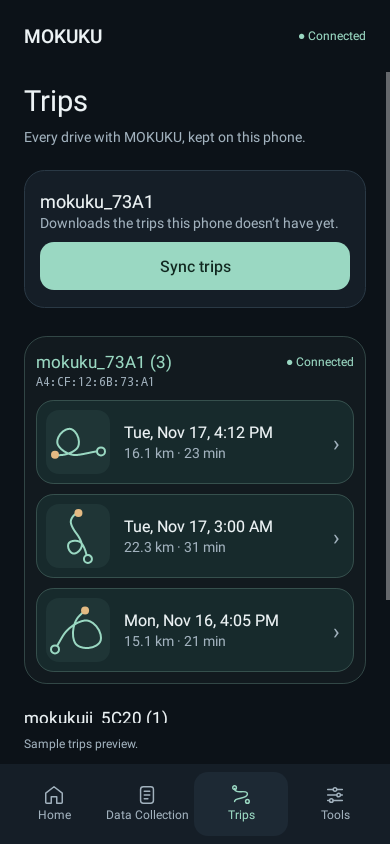
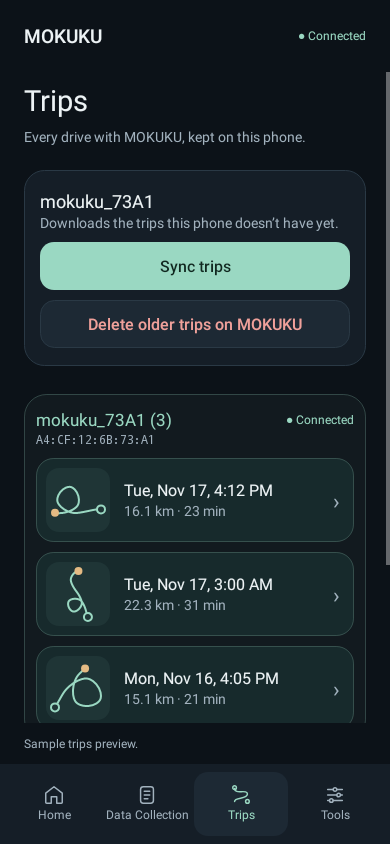
Trips: delete older trips on MOKUKU after a sync
Delete older trips on MOKUKU syncs, then deletes every device trip from 1 to the
newest number minus one with the new trip-deletion command (message 58 on the
original MOKUKU, set property 17 on MOKUKU II). Nothing is deleted when a trip
fails to sync.

diff --git a/design/app.js b/design/app.js
@@ -224,7 +224,7 @@ function syncCard() {
   if (state.sync) {
     return `<section class="card"><div class="card-heading"><span class="icon-tile">${icon("refresh")}</span><div><h3>Syncing trips</h3><p>Trip ${state.sync.index + 1} of ${state.sync.total} · ${state.deviceOnlyTrips[state.sync.index].name}</p></div></div><div class="download-progress"><progress id="sync-progress" value="${state.sync.progress}" max="100" aria-label="Sample sync progress"></progress><div class="download-status"><span id="sync-status">${state.sync.progress}% · sample transfer</span><button class="text-button" data-action="cancel-sync">Cancel</button></div></div></section>`;
   }
-  return `<section class="card"><div class="card-heading"><span class="icon-tile">${icon("download")}</span><div><h3>${state.connected ? device.name : "Sync with MOKUKU"}</h3><p>${state.connected ? "Downloads the trips this phone doesn’t have yet." : "Connect to download new trips. Saved trips stay on this phone."}</p></div></div>${deviceButton(`${icon("refresh")} Sync trips`, "sync-trips", "primary full")}</section>`;
+  return `<section class="card"><div class="card-heading"><span class="icon-tile">${icon("download")}</span><div><h3>${state.connected ? device.name : "Sync with MOKUKU"}</h3><p>${state.connected ? "Downloads the trips this phone doesn’t have yet." : "Connect to download new trips. Saved trips stay on this phone."}</p></div></div>${deviceButton(`${icon("refresh")} Sync trips`, "sync-trips", "primary full")}${deviceButton(`${icon("trash")} Delete older trips on MOKUKU`, "confirm-delete-trips", "danger full", 'style="margin-top:10px"')}</section>`;
 }
 
 function trips() {
@@ -465,6 +465,13 @@ const actions = {
   download(element) { download(element.dataset.file); },
   "sync-trips": syncTrips,
   "cancel-sync"() { cancelSync(); },
+  "confirm-delete-trips"() {
+    openSheet("Delete older trips on MOKUKU?", `<p>MOKUKU syncs first, then deletes every trip on its SD card except the latest. Phone copies are kept. If any trip fails to sync, nothing is deleted.</p><p class="detail">Design preview: no trips are deleted.</p><div class="button-row">${button("Keep trips", "close-sheet")}${button("Sync and delete", "delete-trips", "danger")}</div>`);
+  },
+  "delete-trips"() {
+    closeSheet();
+    toast("Preview: sync and delete demonstrated. No device trips were deleted.");
+  },
   "open-trip"(element) {
     state.trip = state.trips[Number(element.dataset.trip)];
     state.scroll.trip = 0;

diff --git a/app/src/test/java/com/mokuku/debug/MokukuConnectionTest.java b/app/src/test/java/com/mokuku/debug/MokukuConnectionTest.java
@@ -492,7 +492,7 @@ public class MokukuConnectionTest {
             peer.files.put(1, first);
             peer.files.put(2, second);
             peer.files.put(3, third);
-            connection.syncTrips();
+            connection.syncTrips(false);
             assertTrue(connection.snapshot().message, peer.ended.await(5, TimeUnit.SECONDS));
             onWorker(connection, () -> {});
             MokukuConnection.Snapshot snapshot = connection.snapshot();
@@ -516,7 +516,7 @@ public class MokukuConnectionTest {
             peer.files.put(5, fifth);
             peer.files.put(6, sixth);
             onWorker(connection, () -> ReflectionHelpers.setField(connection, "recordingAccessCode", "sample-code"));
-            connection.syncTrips();
+            connection.syncTrips(false);
             assertTrue(peer.listed.await(5, TimeUnit.SECONDS));
             onWorker(connection, () -> {});
             // The paused test clock never fires the listing's reply timeout.
@@ -530,6 +530,21 @@ public class MokukuConnectionTest {
         } finally { connection.close(); }
     }
 
+    @Test public void syncThenDeletesEveryDeviceTripButTheNewest() throws Exception {
+        MokukuConnection connection = connectedSession();
+        try {
+            TripPeer peer = new TripPeer(connection, true);
+            peer.files.put(2, pattern(120));
+            peer.files.put(3, pattern(140));
+            connection.syncTrips(true);
+            assertTrue(connection.snapshot().message, peer.ended.await(5, TimeUnit.SECONDS));
+            onWorker(connection, () -> {});
+            assertEquals(java.util.Collections.singletonList("1-2"), peer.deleted);
+            assertEquals(java.util.Collections.singleton(3), peer.files.keySet());
+            assertEquals("Synced MOKUKU: 2 new trips. Deleted the trips on MOKUKU except trip_3.bin.", connection.snapshot().message);
+        } finally { connection.close(); }
+    }
+
     @Test public void syncKeepsAPhoneTripThatDiffersFromTheDevice() throws Exception {
         MokukuConnection connection = connectedSession();
         try {
@@ -539,10 +554,13 @@ public class MokukuConnectionTest {
             TripLogTest.savePhoneTrip(store, "AA:BB:CC:DD:EE:FF", "MOKUKU", 1, phoneCopy);
             TripPeer peer = new TripPeer(connection, true);
             peer.files.put(1, pattern(200));
-            connection.syncTrips();
+            peer.files.put(2, pattern(200));
+            connection.syncTrips(true);
             assertTrue(peer.ended.await(5, TimeUnit.SECONDS));
             onWorker(connection, () -> {});
             assertTrue(connection.snapshot().message, connection.snapshot().message.contains("trip_1.bin differs from the phone copy, which was kept"));
+            assertTrue(connection.snapshot().message, connection.snapshot().message.endsWith("Nothing was deleted, because not every trip synced."));
+            assertTrue(peer.deleted.isEmpty());
             assertArrayEquals(phoneCopy, Files.readAllBytes(store.file("AA:BB:CC:DD:EE:FF", 1).toPath()));
         } finally { connection.close(); }
     }
@@ -552,6 +570,7 @@ public class MokukuConnectionTest {
         static final int SECTOR_SIZE = 100;
         final Map<Integer, byte[]> files = new java.util.TreeMap<>();
         final List<String> starts = new java.util.concurrent.CopyOnWriteArrayList<>();
+        final List<String> deleted = new java.util.concurrent.CopyOnWriteArrayList<>();
         final CountDownLatch listed = new CountDownLatch(1);
         final CountDownLatch ended = new CountDownLatch(1);
         final BluetoothGatt gatt;
@@ -585,6 +604,7 @@ public class MokukuConnectionTest {
                         if (characteristic == command) command(packet);
                         else if (characteristic == data) acknowledgement(packet);
                         else if (mokukuII && packet[0] == 3 && packet[1] == 10) list(messages, packet[2] & 0xff);
+                        else if (mokukuII && packet[0] == 2 && packet[1] == MokukuProtocol.PROPERTY_DELETE_TRIPS) deleteTrips(messages, packet);
                         else if (packet[0] == 60) listed.countDown();
                     }
                 });
@@ -596,6 +616,16 @@ public class MokukuConnectionTest {
             if (first == 0) for (int number : files.keySet()) names.append(names.length() == 0 ? "" : ",").append("trip_").append(number).append(".bin");
             byte[] text = names.toString().getBytes(java.nio.charset.StandardCharsets.UTF_8);
             notify(messages, ByteBuffer.allocate(text.length + 3).put((byte) 3).put((byte) 10).put((byte) 0).put(text).array());
+        }
+
+        // Set 17: deletes trips first to last, as the firmware does.
+        private void deleteTrips(BluetoothGattCharacteristic messages, byte[] packet) {
+            ByteBuffer range = ByteBuffer.wrap(packet, 2, 8).order(ByteOrder.LITTLE_ENDIAN);
+            int first = range.getInt(), last = range.getInt();
+            deleted.add(first + "-" + last);
+            files.keySet().removeIf(number -> number >= first && number <= last);
+            notify(messages, new byte[] {2, (byte) MokukuProtocol.PROPERTY_DELETE_TRIPS, 0});
+            checkEnded();
         }
 
         private void command(byte[] frame) {

diff --git a/app/src/main/java/com/mokuku/debug/MokukuConnection.java b/app/src/main/java/com/mokuku/debug/MokukuConnection.java
@@ -210,6 +210,9 @@ final class MokukuConnection {
     private int tripsAdded;
     private int tripsExtended;
     private final List<String> tripProblems = new ArrayList<>();
+    // The highest trip number MOKUKU has, and whether to delete its older trips after the sync.
+    private int tripsNewestOnDevice;
+    private boolean tripsDeleteOlder;
     private String tripStatus;
     private int tripsVersion;
     private byte[] firmwareImage;
@@ -782,7 +785,7 @@ final class MokukuConnection {
                 MokukuProtocol.stringMessage(44, code, 255);
                 recordingAccessPreferences.edit().putString(address, code).apply();
                 recordingAccessCode = code;
-                if (thenSyncTrips) syncTrips();
+                if (thenSyncTrips) syncTrips(false);
                 else refreshRecordings();
             } catch (IllegalArgumentException exception) { report(exception.getMessage()); }
         });
@@ -996,6 +999,7 @@ final class MokukuConnection {
         try {
             long[] started = MokukuProtocol.downloadStarted(frame);
             if (started == null) return;
+            tripsNewestOnDevice = Math.max(tripsNewestOnDevice, tripNumber);
             // A different prefix means MOKUKU reused the number (its counter was erased).
             if (tripNumber != 0 && started[2] != downloadPrefixCrc) { skipTrip(PHONE_COPY_KEPT); return; }
             if (tripNumber != 0 && started[0] == downloadOffset) { skipTrip(null); return; }
@@ -1203,8 +1207,11 @@ final class MokukuConnection {
         sendFirmwareSector();
     }
 
-    /** Downloads the trips this phone does not have, and the rest of its newest trip from this device. */
-    void syncTrips() {
+    /**
+     * Downloads the trips this phone does not have, and the rest of its newest trip from this device;
+     * then, with deleteOlder, deletes every trip on MOKUKU but the newest, unless a trip failed to sync.
+     */
+    void syncTrips(boolean deleteOlder) {
         worker.post(() -> {
             if (!canStart()) return;
             if (fileData == null) { report("Update MOKUKU's firmware to sync trips."); return; }
@@ -1212,7 +1219,8 @@ final class MokukuConnection {
             operationCancellable = true;
             received = 0;
             total = 0;
-            tripsPlanned = tripsFetched = tripsAdded = tripsExtended = 0;
+            tripsPlanned = tripsFetched = tripsAdded = tripsExtended = tripsNewestOnDevice = 0;
+            tripsDeleteOlder = deleteOlder;
             tripProblems.clear();
             tripProbing = false;
             tripStatus = "Looking for trips on " + name + "…";
@@ -1254,6 +1262,7 @@ final class MokukuConnection {
             if (number > 0 && !numbers.contains(number)) numbers.add(number);
         }
         Collections.sort(numbers);
+        if (!numbers.isEmpty()) tripsNewestOnDevice = numbers.get(numbers.size() - 1);
         if (numbers.contains(newest)) tripQueue.add(newest);
         for (int number : numbers) if (!saved.contains(number)) tripQueue.add(number);
         tripsPlanned = tripQueue.size();
@@ -1291,7 +1300,19 @@ final class MokukuConnection {
                 : "Synced " + name + ": " + added + (added == 1 ? " new trip" : " new trips")
                 + (extended == 0 ? "" : ", " + extended + " continued") + ".";
         if (!tripProblems.isEmpty()) result += " " + String.join("; ", tripProblems) + ".";
-        endOperation(result);
+        if (!tripsDeleteOlder) { endOperation(result); return; }
+        if (!tripProblems.isEmpty()) { endOperation(result + " Nothing was deleted, because not every trip synced."); return; }
+        int newest = tripsNewestOnDevice;
+        if (newest <= 1) { endOperation(result + " MOKUKU has no older trips to delete."); return; }
+        String synced = result;
+        tripStatus = "Deleting trips on " + name + "…";
+        publish();
+        int id = operationId;
+        send(MokukuProtocol.deleteTrips(mokukuII, 1, newest - 1), (reply, error) -> {
+            if (id != operationId) return;
+            endOperation(synced + (error == null ? " Deleted the trips on MOKUKU except " + TripStore.name(newest) + "."
+                    : " Deleting trips failed: " + error));
+        });
     }
 
     void cancelOperation() {

diff --git a/app/src/main/java/com/mokuku/debug/MainActivity.java b/app/src/main/java/com/mokuku/debug/MainActivity.java
@@ -904,10 +904,15 @@ public final class MainActivity extends Activity {
         card.addView(ui.text(snapshot.connected ? snapshot.name : "Sync with MOKUKU", 18, R.color.text_primary));
         card.addView(ui.muted(snapshot.connected ? "Downloads the trips this phone doesn’t have yet."
                 : "Connect to download new trips. Saved trips stay on this phone."));
-        deviceButton(card, "Sync trips", true, false, () -> {
-            if (snapshot.mokukuII || snapshot.hasRecordingAccessCode) session.connection.syncTrips();
-            else enterRecordingAccessCode();
-        });
+        deviceButton(card, "Sync trips", true, false, () -> syncTrips(false));
+        deviceButton(card, "Delete older trips on MOKUKU", false, true, () -> confirm("Delete older trips on MOKUKU?",
+                "MOKUKU syncs first, then deletes every trip on its SD card except the latest. Phone copies are kept. "
+                        + "If any trip fails to sync, nothing is deleted.", "Sync and delete", () -> syncTrips(true)));
+    }
+
+    private void syncTrips(boolean deleteOlder) {
+        if (snapshot.mokukuII || snapshot.hasRecordingAccessCode) session.connection.syncTrips(deleteOlder);
+        else enterRecordingAccessCode();
     }
 
     private void loadTrips() {

diff --git a/app/src/main/java/com/mokuku/debug/MokukuProtocol.java b/app/src/main/java/com/mokuku/debug/MokukuProtocol.java
@@ -150,6 +150,7 @@ final class MokukuProtocol {
     static final int PROPERTY_DELETE_RECORDINGS = 13;
     static final int PROPERTY_PANEL_ACTION = 15;
     static final int PROPERTY_FIRMWARE_SLOTS = 16;
+    static final int PROPERTY_DELETE_TRIPS = 17;
     static final int PROPERTY_ROLLBACK = 200;
     static final int MOKUKU_II_STRING_MAXIMUM_BYTES = 64;
 
@@ -161,6 +162,13 @@ final class MokukuProtocol {
         byte[] text = path.getBytes(StandardCharsets.UTF_8);
         return property(TYPE_GET, PROPERTY_DIRECTORY, ByteBuffer.allocate(text.length + 2)
                 .order(ByteOrder.LITTLE_ENDIAN).putShort((short) first).put(text).array());
+    }
+
+    /** Deletes MOKUKU's trips first to last (inclusive); MOKUKU keeps the trip it is recording. */
+    static byte[] deleteTrips(boolean mokukuII, int first, int last) {
+        ByteBuffer range = ByteBuffer.allocate(8).order(ByteOrder.LITTLE_ENDIAN).putInt(first).putInt(last);
+        if (mokukuII) return property(TYPE_SET, PROPERTY_DELETE_TRIPS, range.array());
+        return ByteBuffer.allocate(9).put((byte) 58).put(range.array()).array();
     }
 
     /** The value of a MOKUKU II set/get reply; throws with the reason for a result other than OK. */

diff --git a/app/src/test/java/com/mokuku/debug/MokukuProtocolTest.java b/app/src/test/java/com/mokuku/debug/MokukuProtocolTest.java
@@ -61,6 +61,11 @@ public class MokukuProtocolTest {
         assertArrayEquals(new byte[] {2, 0, 1, 0, 3, 0}, MokukuProtocol.withoutCrc(MokukuProtocol.acknowledgement(2, 1, 3), 8));
     }
 
+    @Test public void encodesTripDeletionRanges() {
+        assertArrayEquals(new byte[] {58, 1, 0, 0, 0, 0x29, 1, 0, 0}, MokukuProtocol.deleteTrips(false, 1, 297));
+        assertArrayEquals(new byte[] {2, 17, 1, 0, 0, 0, 0x29, 1, 0, 0}, MokukuProtocol.deleteTrips(true, 1, 297));
+    }
+
     @Test public void decodesDownloadStartRepliesAndRefusals() throws Exception {
         assertArrayEquals(new long[] {1000, 4096, 0xbeef}, MokukuProtocol.downloadStarted(startReply(0, 1000, 4096)));
         assertThrows(IllegalStateException.class, () -> MokukuProtocol.downloadStarted(startReply(1, 0, 0)));

diff --git a/app/src/test/java/com/mokuku/debug/TripsPageTest.java b/app/src/test/java/com/mokuku/debug/TripsPageTest.java
@@ -57,6 +57,7 @@ public class TripsPageTest {
             assertTrue(position(content, "mokuku_73A1 (3)") < position(content, "mokukuii_5C20 (1)"));
             assertNotNull(find(content, "● Connected"));
             assertTrue(find(content, "Sync trips").isEnabled());
+            assertTrue(find(content, "Delete older trips on MOKUKU").isEnabled());
             save(activity.getWindow().getDecorView(), 0, "native-trips");
 
             ReflectionHelpers.setField(connection, "operation", MokukuConnection.TRIP_SYNC);

diff --git a/design/PROTOCOL_MAP.md b/design/PROTOCOL_MAP.md
@@ -37,6 +37,7 @@ clock-only time sync, as detailed below.
 | Download recording | File Command start `02 00`, offset LE32 `0`, path, CRC16 | Reply: size LE32, sector size LE32, prefix CRC16; then File Data sectors |
 | List trips | `3C len /sd/trip` (60) | Comma-separated `trip_<n>.bin` names. The reply is dropped, not truncated, once it exceeds MTU − 3 bytes (about 40 trips), so the app also probes `trip_<n+1>.bin` upward from the highest number it knows until a start is refused with status 2 |
 | Download trip | File Command start, offset LE32, `/sd/trip/trip_<n>.bin` | Offset = bytes the phone has; the reply's prefix CRC16 must match them, else keep the phone copy and skip |
+| Delete trips | `3A first_LE32 last_LE32` (58) | `3A 01` when done; deletes `trip_<n>.bin` from first to last except the trip recording. Needs the access code |
 
 Downloads use the sector file transfer shared with MOKUKU II (MobiliMOKUKU
 `doc/MOKUKU_II_BLE_CONTROL.md`). Each File Data packet is sector LE16, sequence
@@ -111,6 +112,7 @@ same sector transfer as above.
 | Download recording | File Command start `02 00`, `/sdcard/record/name` | No access code |
 | List trips | Get 10, first index LE16, `/sdcard/trip` | Paged like recordings; result 4 when the directory is missing (no trips yet) or no SD card |
 | Download trip | File Command start, offset LE32, `/sdcard/trip/trip_<n>.bin` | Same resume rule as the original |
+| Delete trips | Set 17, first LE32, last LE32 | As the original's message 58; result 4 without a card or when a file cannot be deleted |
 | Firmware update | File Command start `C8 00`, size LE32 | Reply: sector size LE32, packet size LE16; app sends each sector's packets on File Data and waits for its acknowledgement; MOKUKU II restarts after the last |
 
 MOKUKU II has no debug-log, date/time, recording start/stop, or meme-update

diff --git a/design/README.md b/design/README.md
@@ -203,7 +203,10 @@ in app-private storage, so the Trips tab works offline and while disconnected.
 Place a sync card first. Connected, it names the device and offers **Sync trips**, which
 downloads every trip on MOKUKU that the phone does not have, plus the rest of the newest phone
 trip in case MOKUKU was still recording it. Syncing never deletes device or phone trips.
-Disconnected, the card says **Connect to download new trips** and disables the button. The
+Below it, **Delete older trips on MOKUKU** (destructive style) confirms, syncs, then deletes
+every trip on MOKUKU except the latest by number range; phone copies stay, and nothing is
+deleted if any trip fails to sync. Disconnected, the card says **Connect to download new trips**
+and disables both buttons. The
 original MOKUKU needs the Data Collection access code; without one, **Sync trips** opens the
 access-code dialog. While syncing, show **Trip 2 of 5** with the device filename, the
 download progress, and **Cancel**; trips already saved stay. Finish with how many trips were

diff --git a/README.md b/README.md
@@ -55,8 +55,10 @@ see [MOKUKU II](#mokuku-ii).
   rest of the phone's newest trip from it, which MOKUKU may still have been recording.
   Trips stay in app-private storage, grouped by BLE address, with the connected
   MOKUKU first. Open a trip to see its route on an OpenStreetMap map with distance,
-  duration, and speeds. The original MOKUKU needs the recording access code. See
-  [Trips](#trips) for sync limits.
+  duration, and speeds. **Delete older trips on MOKUKU** syncs, then deletes every
+  trip on MOKUKU's SD card except the latest; nothing is deleted if any trip fails to
+  sync. The original MOKUKU needs the recording access code. See [Trips](#trips) for
+  sync limits.
 
 The phone sends commands over BLE; MOKUKU itself downloads OTA assets over its
 configured Wi-Fi. The app uses the internet only for OpenStreetMap tiles, cached in
